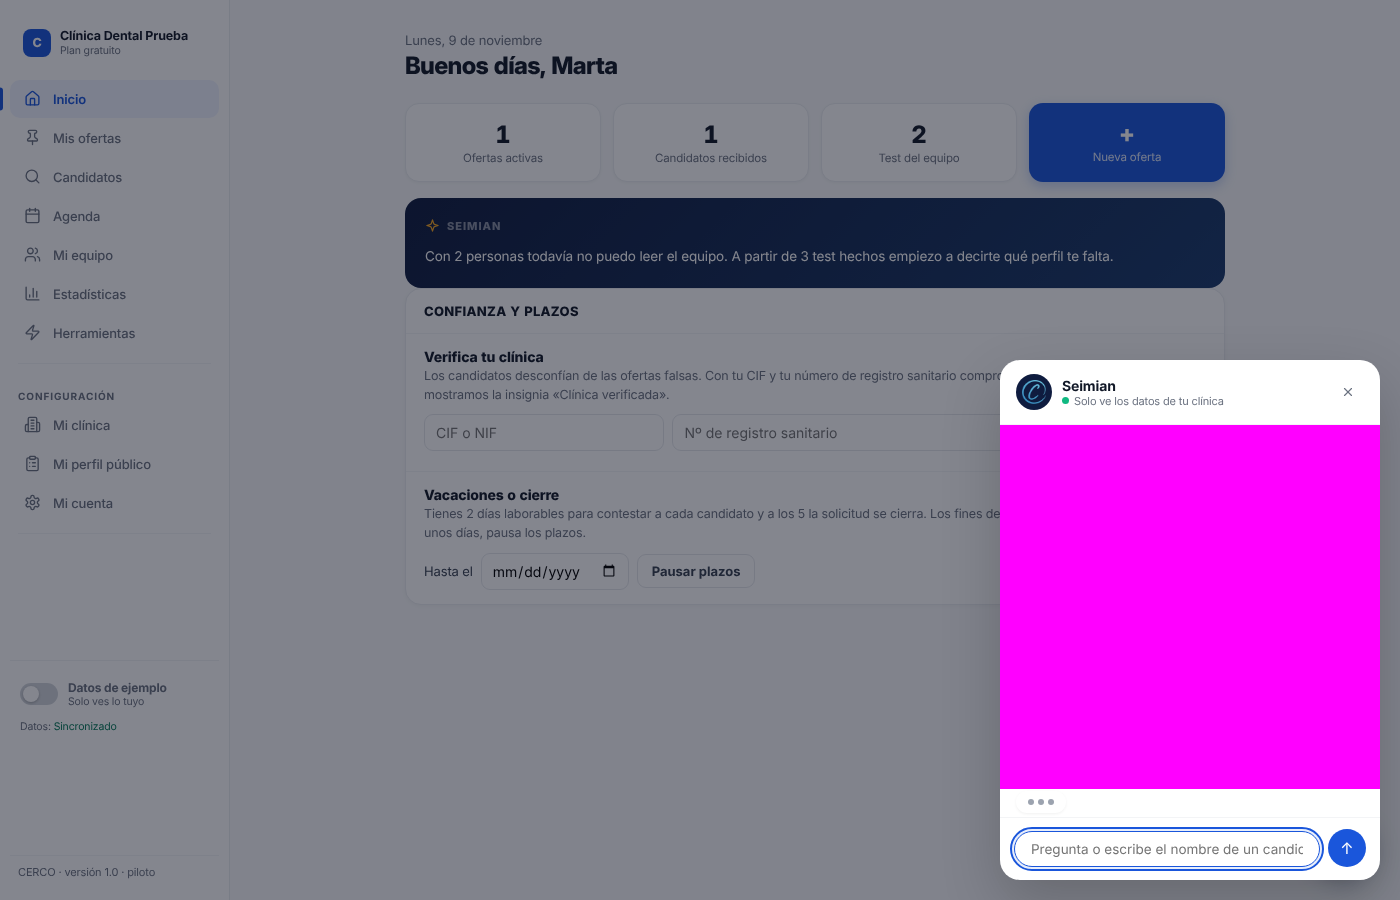
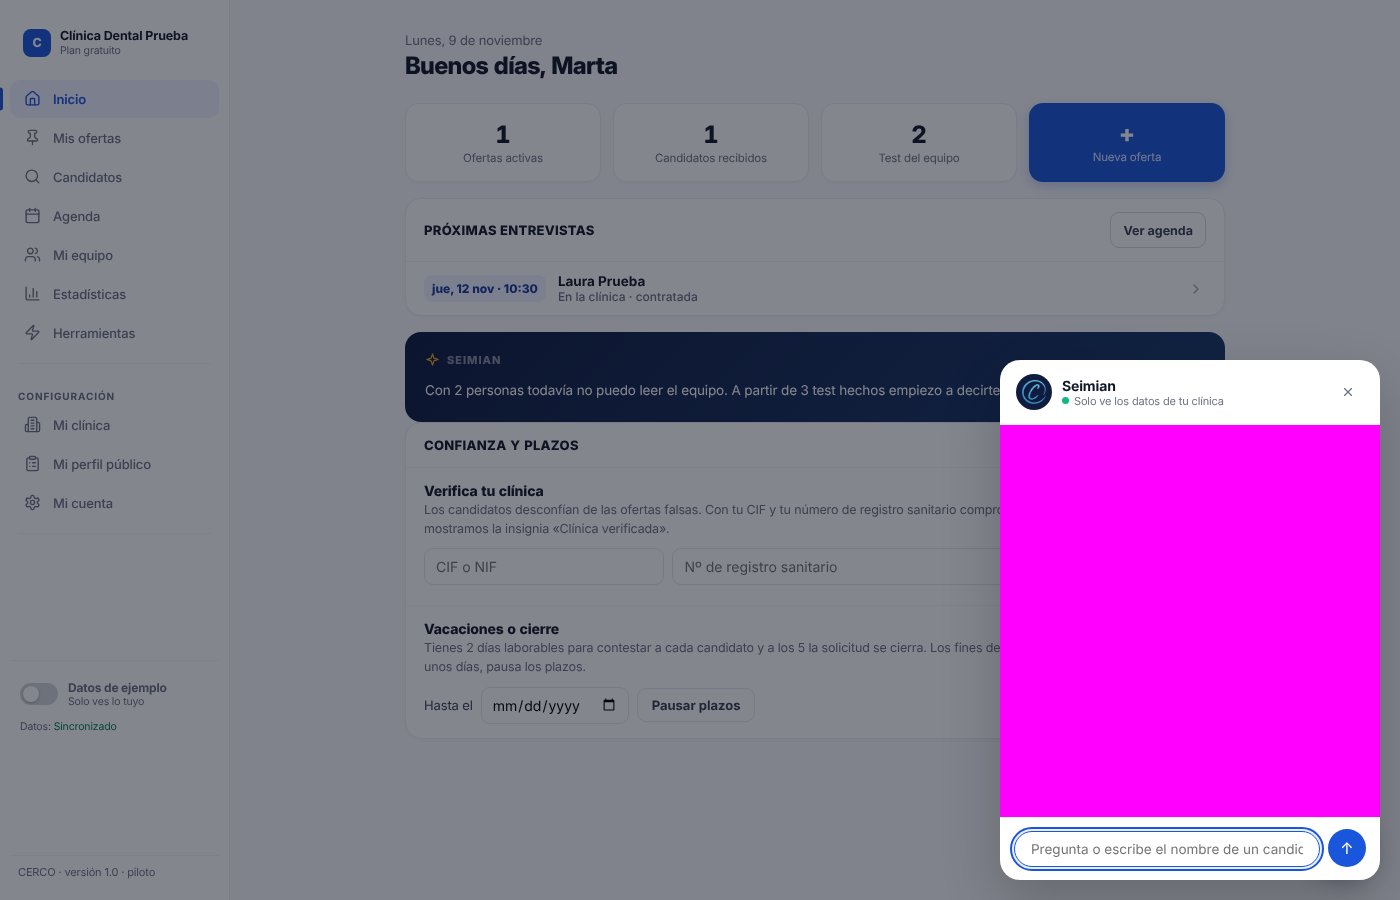
Arreglo: la Agenda enseña también las entrevistas de quien ya está contratado
Antes, al contratar a alguien su entrevista desaparecía de la Agenda (por
ejemplo, la del 12 de noviembre). Ahora sigue apareciendo, con la etiqueta
«Contratada» en lugar de «Sin confirmar»; también en el bloque de Inicio.

Claude-Session: https://claude.ai/code/session_01L5qSpH5ECCjMh1xfSpjWDJ

diff --git a/public/clinica/12-todo-conectado.js b/public/clinica/12-todo-conectado.js
@@ -129,7 +129,8 @@
   var MODO = { video:'Videollamada', clinica:'En la clínica', tel:'Por teléfono' };
   var AG = { y:new Date().getFullYear(), m:new Date().getMonth(), dia:null };
   function citas(){
-    return cands().filter(function(c){ return c.cita && c.cita.fecha && c.estado === 'entrevista'; })
+    // también las de quien ya está contratada: la entrevista sigue en la agenda
+    return cands().filter(function(c){ return c.cita && c.cita.fecha && (c.estado === 'entrevista' || c.estado === 'contratada'); })
       .sort(function(a,b){ return new Date(a.cita.fecha) - new Date(b.cita.fecha); });
   }
   function clave(d){ d = new Date(d); return d.getFullYear() + '-' + ('0'+(d.getMonth()+1)).slice(-2) + '-' + ('0'+d.getDate()).slice(-2); }
@@ -138,6 +139,7 @@
   function valorada(c){ var v = ((leer('cerco_valoraciones', {})[c.id] || {}).v || []); return v.some(function(x){ return x > 0; }); }
   function pill(c){
     var t = c.cita.estado;
+    if(c.estado === 'contratada') return '<span class="ag-pill" style="background:#E8F8F1;color:#0B6B4F;">Contratada</span>';
     return t === 'confirmada' ? '<span class="ag-pill" style="background:#E8F8F1;color:#0B6B4F;">Confirmada</span>'
       : t === 'cambio' ? '<span class="ag-pill" style="background:#FFF4E5;color:#B45309;">Pide otro día</span>'
       : '<span class="ag-pill" style="background:#F1F3F6;color:#4B5563;">Sin confirmar</span>';
@@ -315,7 +317,7 @@
       if(prox.length){
         h += '<div class="ia-h"><b>PRÓXIMAS ENTREVISTAS</b><button type="button" class="ag-btn" onclick="showScreen(\'agenda\')">Ver agenda</button></div>'
           + prox.map(function(c){ var d = new Date(c.cita.fecha), hoy = clave(d) === clave(new Date());
-              return '<button type="button" class="ia-f" onclick="abrirFichaCandidato(\''+e(c.id)+'\')"><i>'+(hoy ? 'Hoy' : d.toLocaleDateString('es-ES',{weekday:'short', day:'numeric', month:'short'}))+' · '+hora(d)+'</i><span>'+e(c.nombre || '')+'<small>'+e(MODO[c.cita.modo] || '')+' · '+(c.cita.estado === 'confirmada' ? 'confirmada' : (c.cita.estado === 'cambio' ? 'pide otro día' : 'sin confirmar'))+'</small></span>'+ico(I.der,'#9CA3AF',16)+'</button>'; }).join('');
+              return '<button type="button" class="ia-f" onclick="abrirFichaCandidato(\''+e(c.id)+'\')"><i>'+(hoy ? 'Hoy' : d.toLocaleDateString('es-ES',{weekday:'short', day:'numeric', month:'short'}))+' · '+hora(d)+'</i><span>'+e(c.nombre || '')+'<small>'+e(MODO[c.cita.modo] || '')+' · '+(c.estado === 'contratada' ? 'contratada' : c.cita.estado === 'confirmada' ? 'confirmada' : (c.cita.estado === 'cambio' ? 'pide otro día' : 'sin confirmar'))+'</small></span>'+ico(I.der,'#9CA3AF',16)+'</button>'; }).join('');
       }
       if(ints.length){
         var min = ints.map(quedan).filter(function(x){ return x !== null; }).sort(function(a,b){ return a-b; })[0];

diff --git a/pruebas/e2e/10-recorrido.spec.js b/pruebas/e2e/10-recorrido.spec.js
@@ -413,6 +413,8 @@ test('7. El resto de pantallas de la clínica se ven bien y sin errores', async 
   for (const [id] of pantallas) {
     await page.evaluate((x) => showScreen(x), id);
     await expect(page.locator('#screen-' + id)).toBeVisible();
+    // La Agenda enseña la entrevista del 12 de noviembre, aunque Laura ya esté contratada
+    if (id === 'agenda') { await expect(page.locator('#screen-agenda')).toContainText('Laura Prueba'); await expect(page.locator('#screen-agenda')).toContainText('Contratada'); }
     await capturar(page, 'clinica-30-pantalla-' + id);
   }
   // Seimian: se abre y contesta
